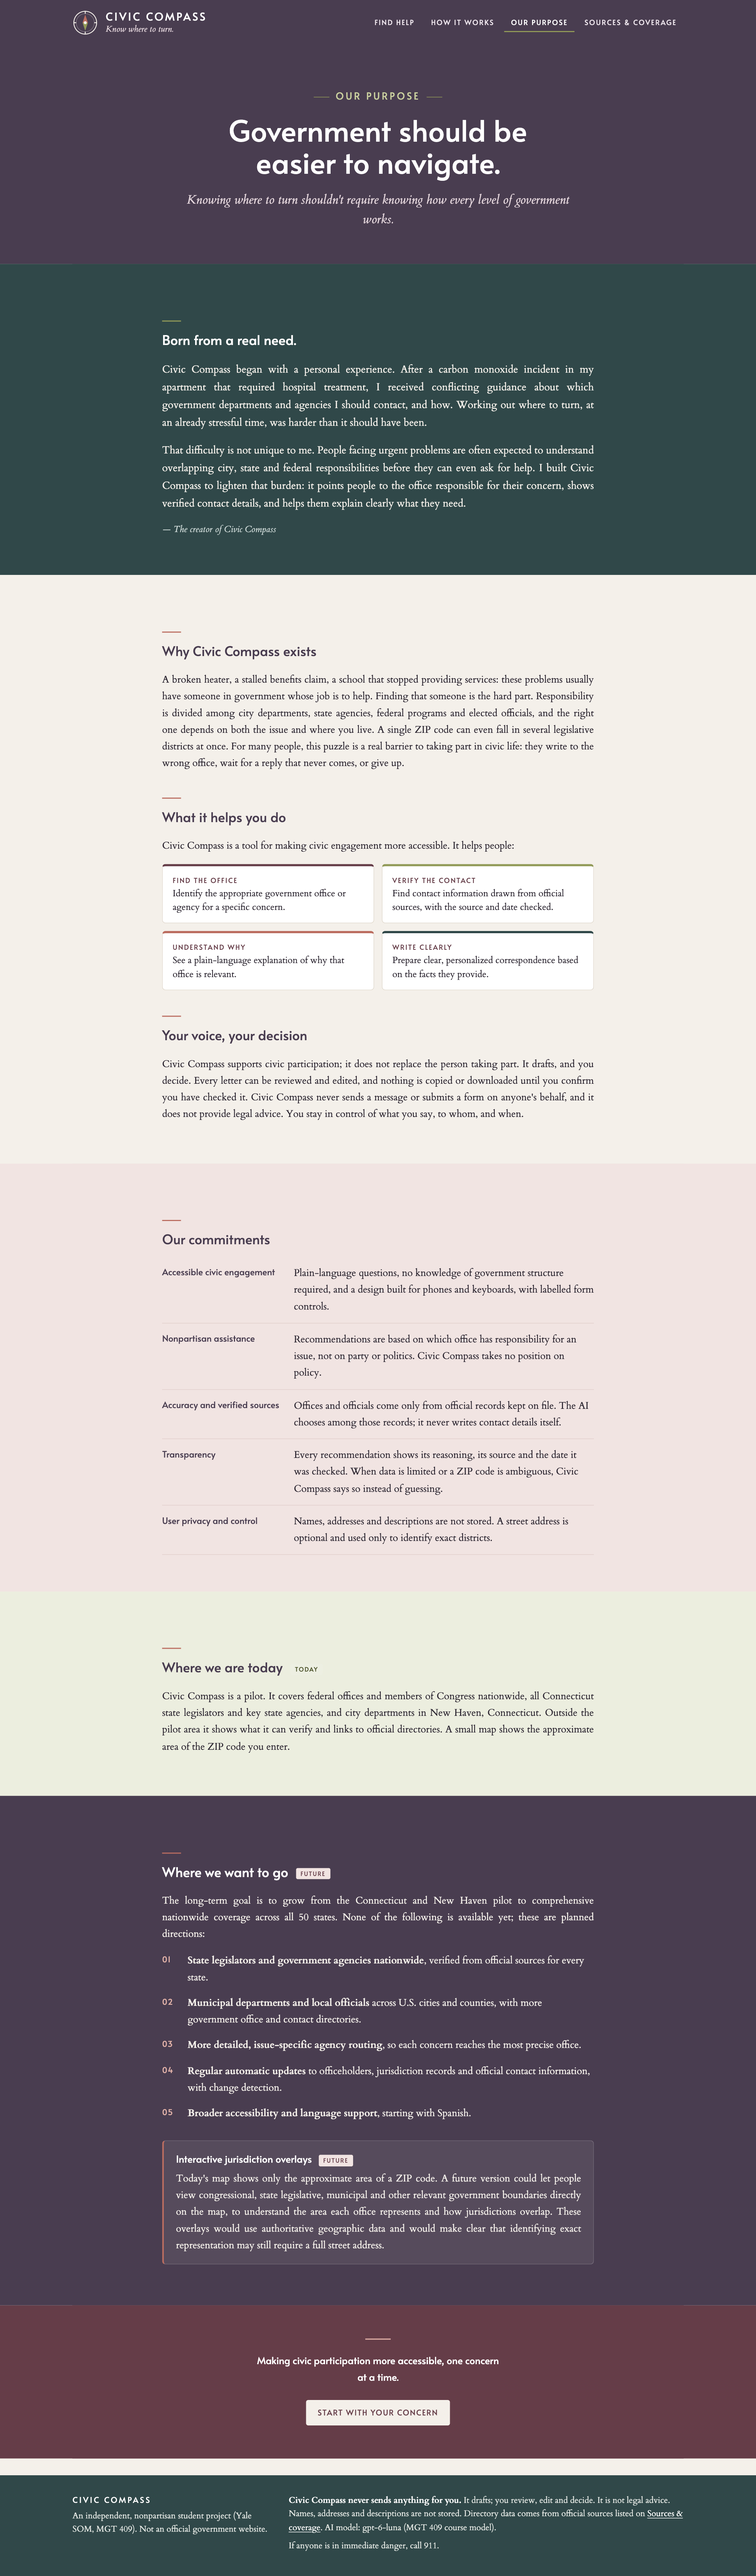
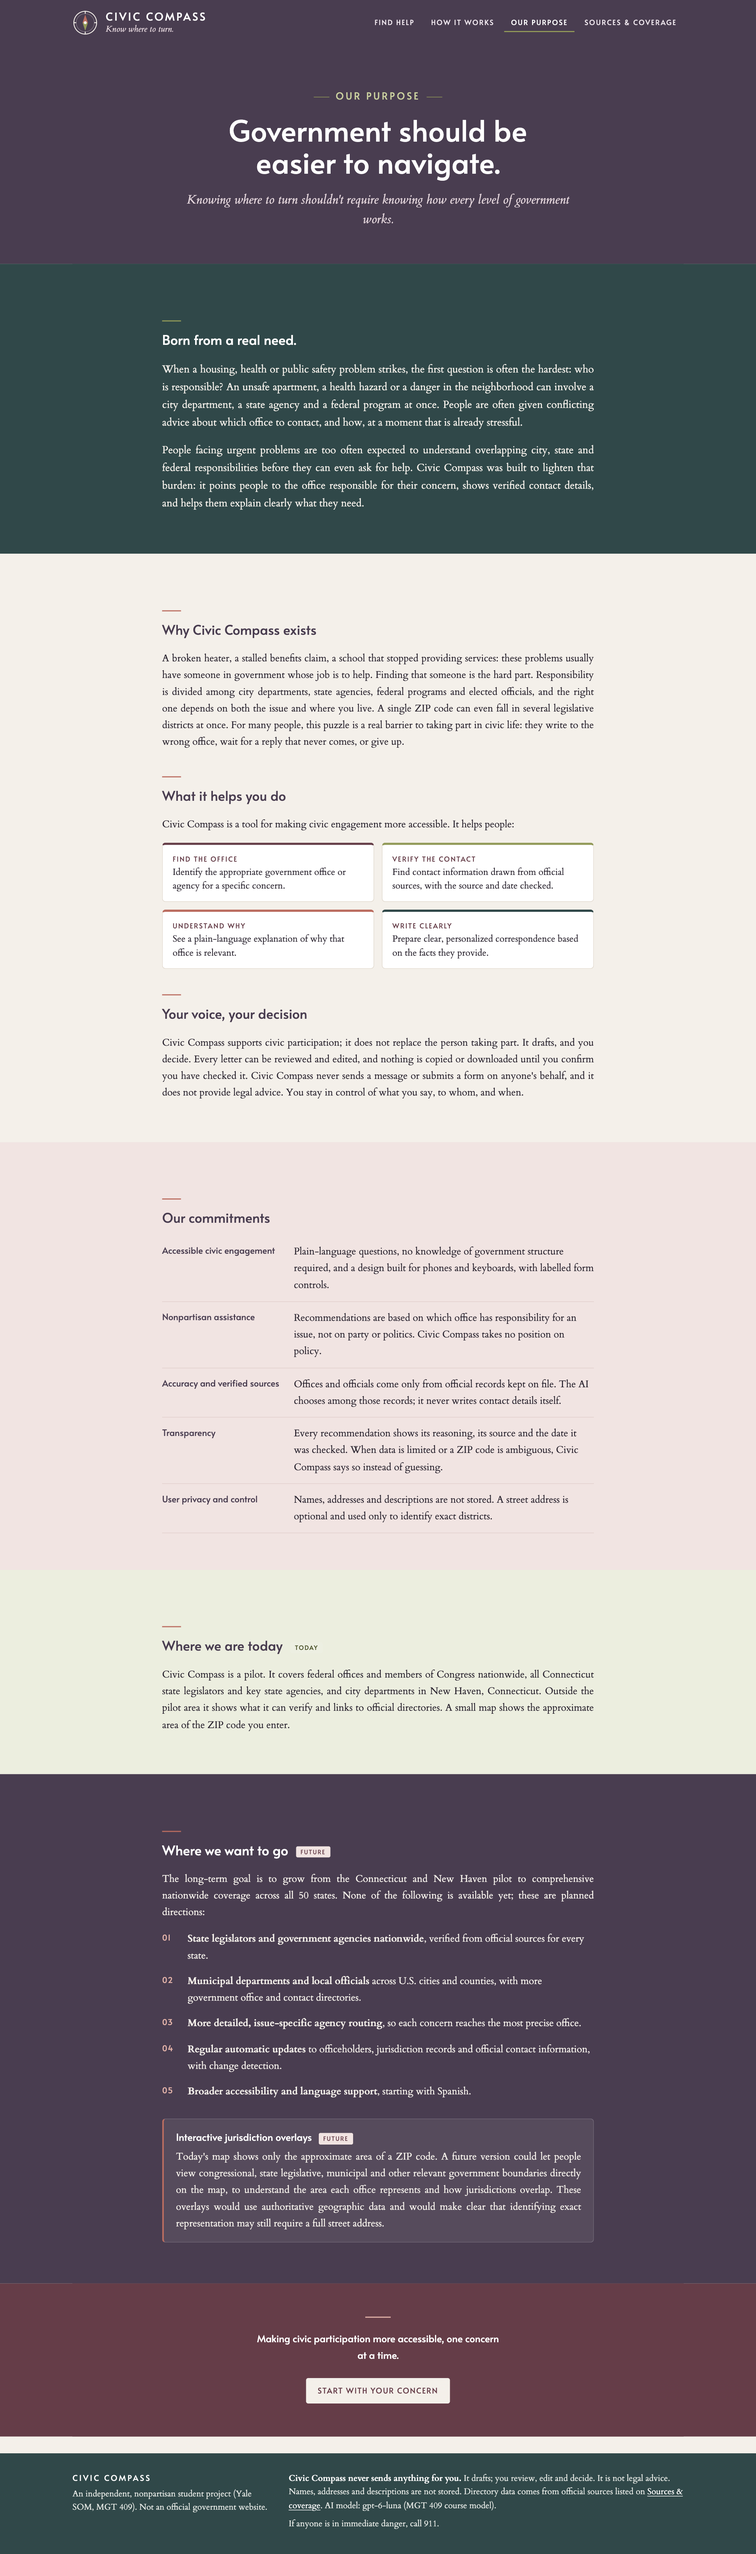
Replace personal story on OUR PURPOSE page with general explanation
Privacy-only change to the public website. report.html and slides.html
are unchanged.

diff --git a/app/templates/purpose.html b/app/templates/purpose.html
@@ -13,14 +13,13 @@
   <section class="band band-evergreen origin" aria-labelledby="origin-title">
     <div class="inner">
       <h2 id="origin-title">Born from a real need.</h2>
-      <p class="justify">Civic Compass began with a personal experience. After a carbon monoxide incident in my apartment that
-        required hospital treatment, I received conflicting guidance about which government departments and agencies I should
-        contact, and how. Working out where to turn, at an already stressful time, was harder than it should have been.</p>
-      <p class="justify">That difficulty is not unique to me. People facing urgent problems are often expected to understand
-        overlapping city, state and federal responsibilities before they can even ask for help. I built Civic Compass to lighten
-        that burden: it points people to the office responsible for their concern, shows verified contact details, and helps
-        them explain clearly what they need.</p>
-      <p class="sig">— The creator of Civic Compass</p>
+      <p class="justify">When a housing, health or public safety problem strikes, the first question is often the hardest: who
+        is responsible? An unsafe apartment, a health hazard or a danger in the neighborhood can involve a city department, a
+        state agency and a federal program at once. People are often given conflicting advice about which office to contact,
+        and how, at a moment that is already stressful.</p>
+      <p class="justify">People facing urgent problems are too often expected to understand overlapping city, state and federal
+        responsibilities before they can even ask for help. Civic Compass was built to lighten that burden: it points people to
+        the office responsible for their concern, shows verified contact details, and helps them explain clearly what they need.</p>
     </div>
   </section>
 
